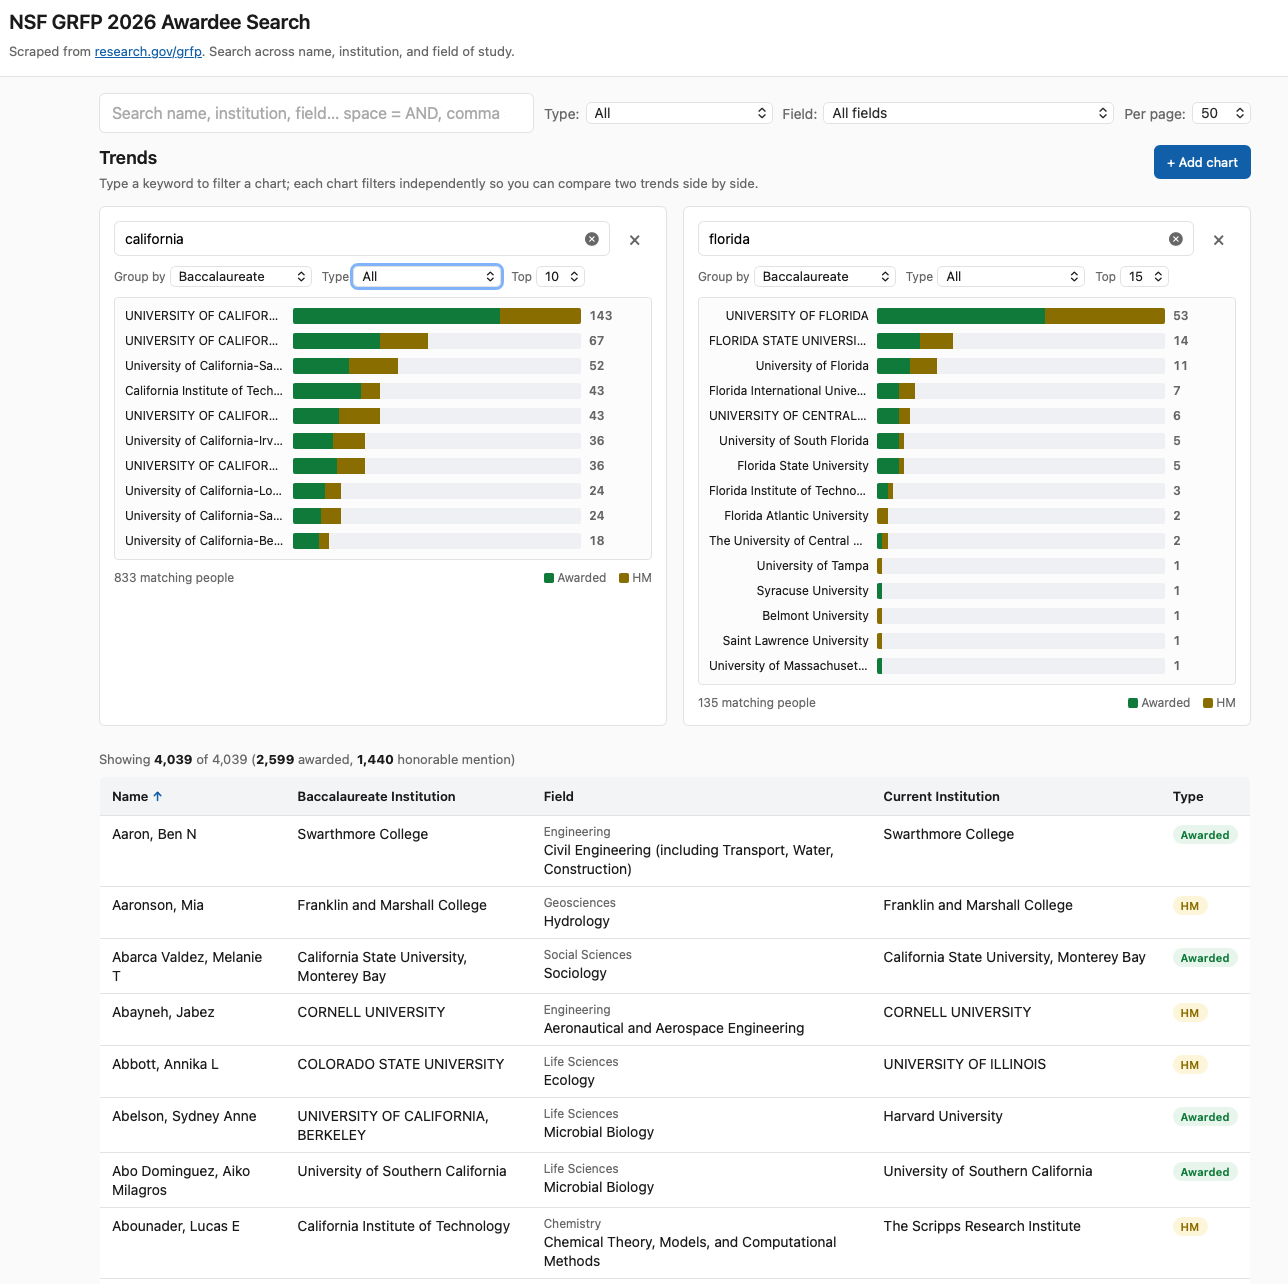
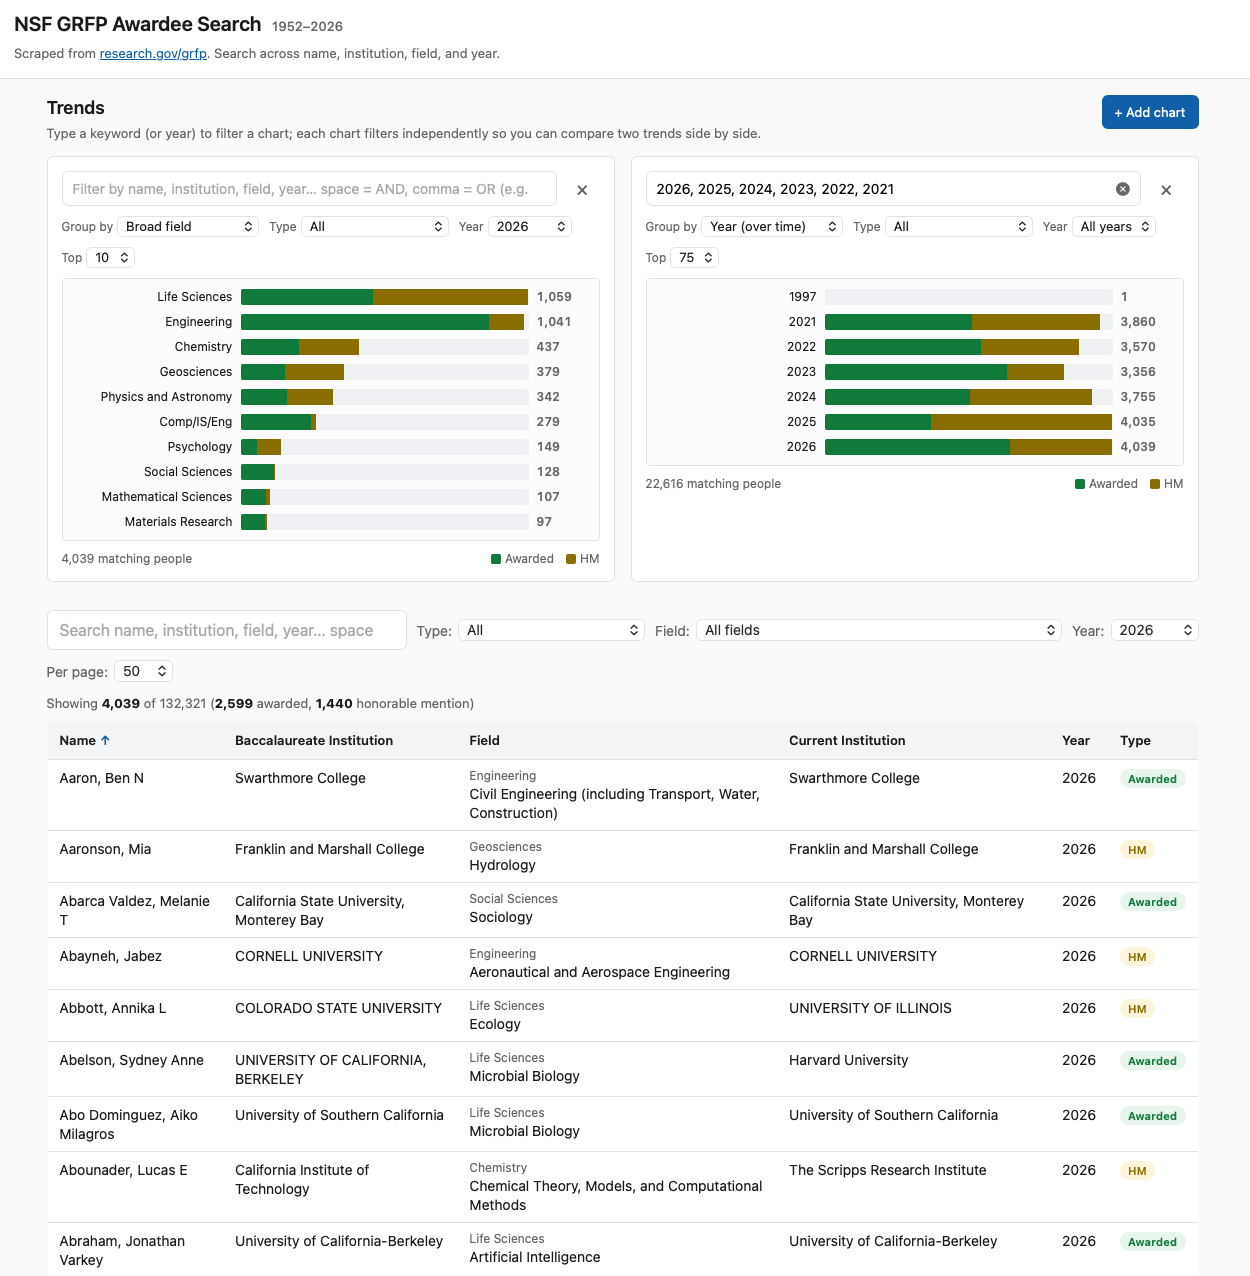
feat: default to current year, move search below trends, preload 2021-2026 time-series chart

diff --git a/index.html b/index.html
@@ -170,7 +170,7 @@
   }
 
   /* Trends / charts */
-  .trends { margin: 4px 0 24px; }
+  .trends { margin: 0 0 28px; }
   .trends-header {
     display: flex;
     justify-content: space-between;
@@ -350,8 +350,19 @@
 </header>
 
 <div class="container">
+  <section class="trends">
+    <div class="trends-header">
+      <div>
+        <h2>Trends</h2>
+        <p>Type a keyword (or year) to filter a chart; each chart filters independently so you can compare two trends side by side.</p>
+      </div>
+      <button id="add-chart" class="btn primary" type="button">+ Add chart</button>
+    </div>
+    <div id="charts" class="charts-grid"></div>
+  </section>
+
   <div class="controls">
-    <input id="q" type="search" placeholder="Search name, institution, field&hellip; space = AND, comma = OR (e.g. MIT biology, Stanford chemistry)" autocomplete="off" spellcheck="false" />
+    <input id="q" type="search" placeholder="Search name, institution, field, year&hellip; space = AND, comma = OR (e.g. MIT 2024, Stanford 2024)" autocomplete="off" spellcheck="false" />
     <div class="filter">
       <label for="type">Type:</label>
       <select id="type">
@@ -380,17 +391,6 @@
       </select>
     </div>
   </div>
-
-  <section class="trends">
-    <div class="trends-header">
-      <div>
-        <h2>Trends</h2>
-        <p>Type a keyword to filter a chart; each chart filters independently so you can compare two trends side by side.</p>
-      </div>
-      <button id="add-chart" class="btn primary" type="button">+ Add chart</button>
-    </div>
-    <div id="charts" class="charts-grid"></div>
-  </section>
 
   <div class="stats" id="stats">Loading&hellip;</div>
 
@@ -464,12 +464,21 @@
       }
       state.data = data;
       state.years = years;
+      // Default to the most recent year so the page opens with current-year
+      // results; users can widen to "All years" from the dropdown.
+      state.yearFilter = years.length ? String(years[0]) : "";
       populateFieldFilter(data);
       populateYearFilter(years);
+      yearEl.value = state.yearFilter;
       updateFooterCounts(data);
       applyFilters();
       addChart({ dimension: "fb" });
-      addChart({ dimension: "y", topN: 75 });
+      addChart({
+        dimension: "y",
+        topN: 75,
+        yearFilter: "",
+        query: "2026, 2025, 2024, 2023, 2022, 2021",
+      });
     })
     .catch((err) => {
       statsEl.textContent = "Failed to load awardees.json: " + err;
@@ -685,15 +694,19 @@
   const addChartBtn = $("add-chart");
 
   function addChart(init) {
+    const defaultYear = state.years.length ? String(state.years[0]) : "";
     const chart = Object.assign({
       id: ++chartIdSeq,
       query: "",
       tokens: [],
       typeFilter: "",
-      yearFilter: "",
+      yearFilter: defaultYear,
       dimension: "fb",
       topN: 10,
     }, init || {});
+    if (chart.query && chart.tokens.length === 0) {
+      chart.tokens = tokenize(chart.query);
+    }
     charts.push(chart);
     mountChart(chart);
     drawChart(chart);
@@ -717,7 +730,7 @@
       .join("");
     el.innerHTML =
       '<div class="chart-card-top">' +
-        '<input type="search" class="chart-q" placeholder="Filter&hellip; space = AND, comma = OR (e.g. MIT, Stanford)" autocomplete="off" spellcheck="false" />' +
+        '<input type="search" class="chart-q" placeholder="Filter by name, institution, field, year&hellip; space = AND, comma = OR (e.g. MIT 2024, Stanford)" autocomplete="off" spellcheck="false" />' +
         '<button class="chart-remove" type="button" title="Remove chart" aria-label="Remove chart">&times;</button>' +
       '</div>' +
       '<div class="chart-controls">' +

diff --git a/README.md b/README.md
@@ -2,7 +2,7 @@
 
 Every publicly listed NSF Graduate Research Fellowship Program awardee and honorable mention from 1952 through 2026, a DuckDB database over the full set, and a single-page website with keyword search, filters, and comparable trend charts.
 
-![Two trend charts side by side comparing top baccalaureate institutions for California vs Florida, above the paginated search results table](screenshot.png)
+![Default view: a broad-field distribution chart and a 2021-2026 year-over-time chart above the paginated 2026 search results](screenshot.png)
 
 Data snapshot date: 2026-04-16.
 Source: <https://www.research.gov/grfp/AwardeeList.do?method=loadAwardeeList>.
